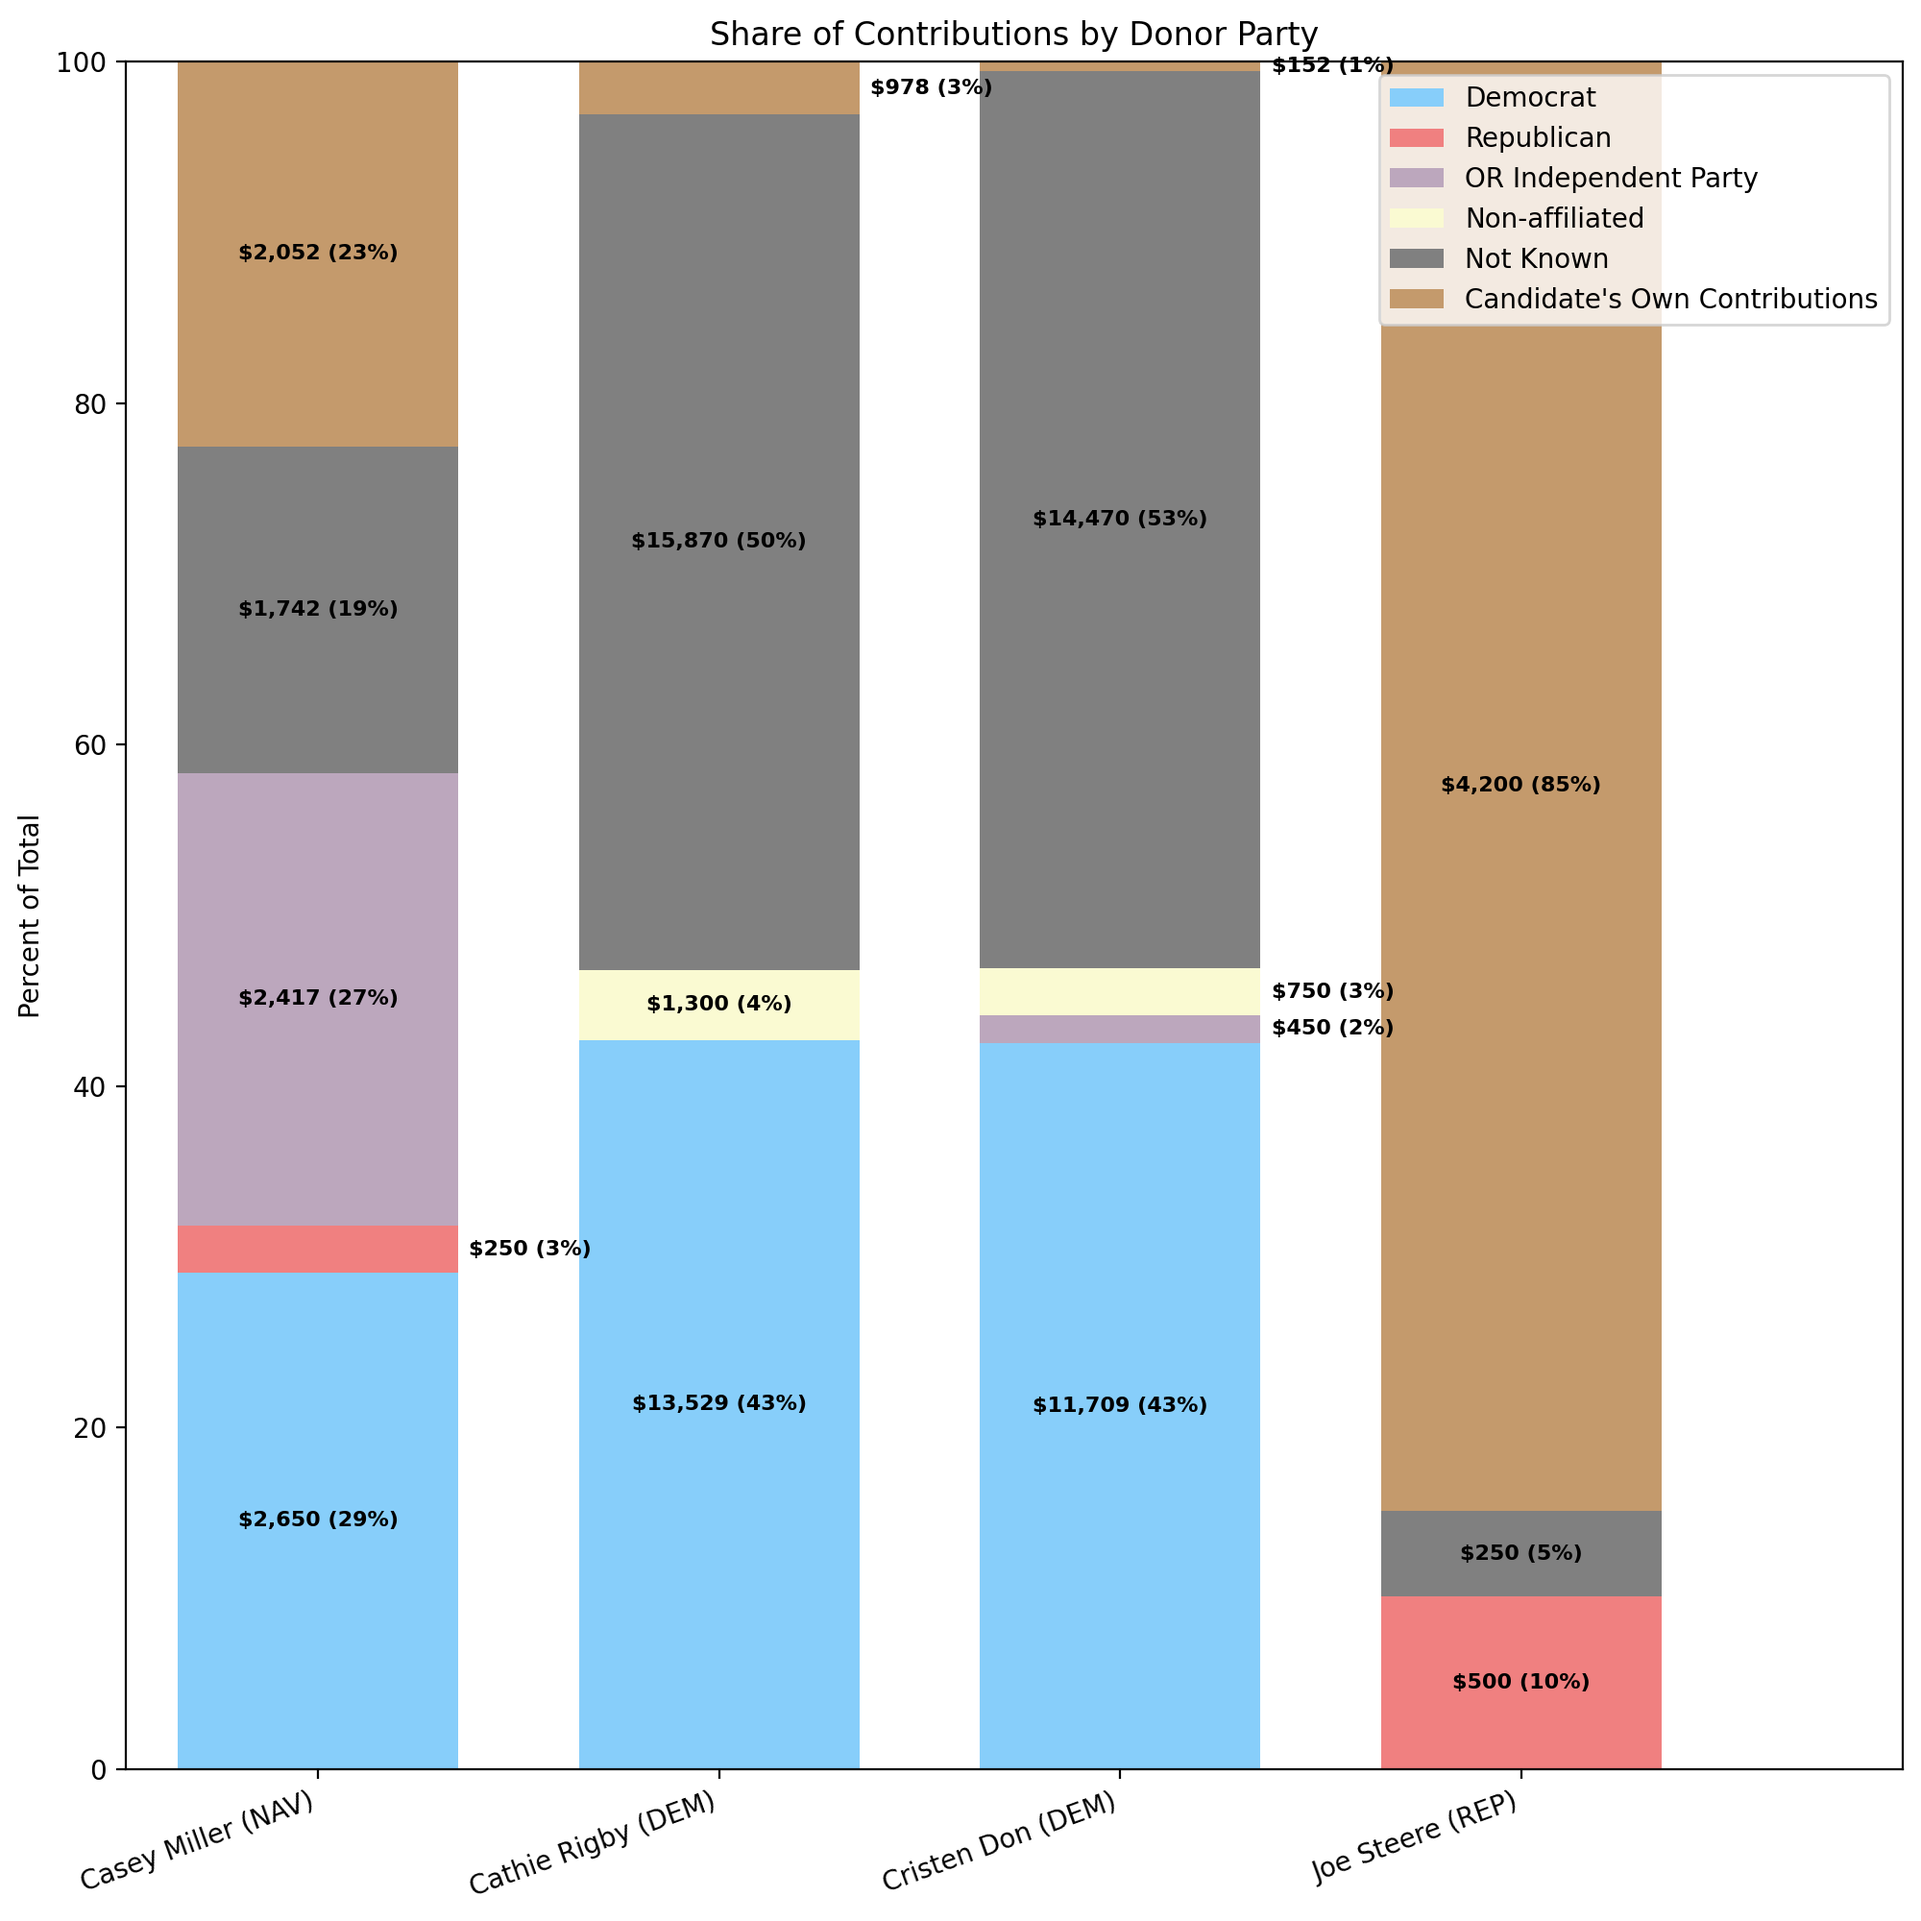
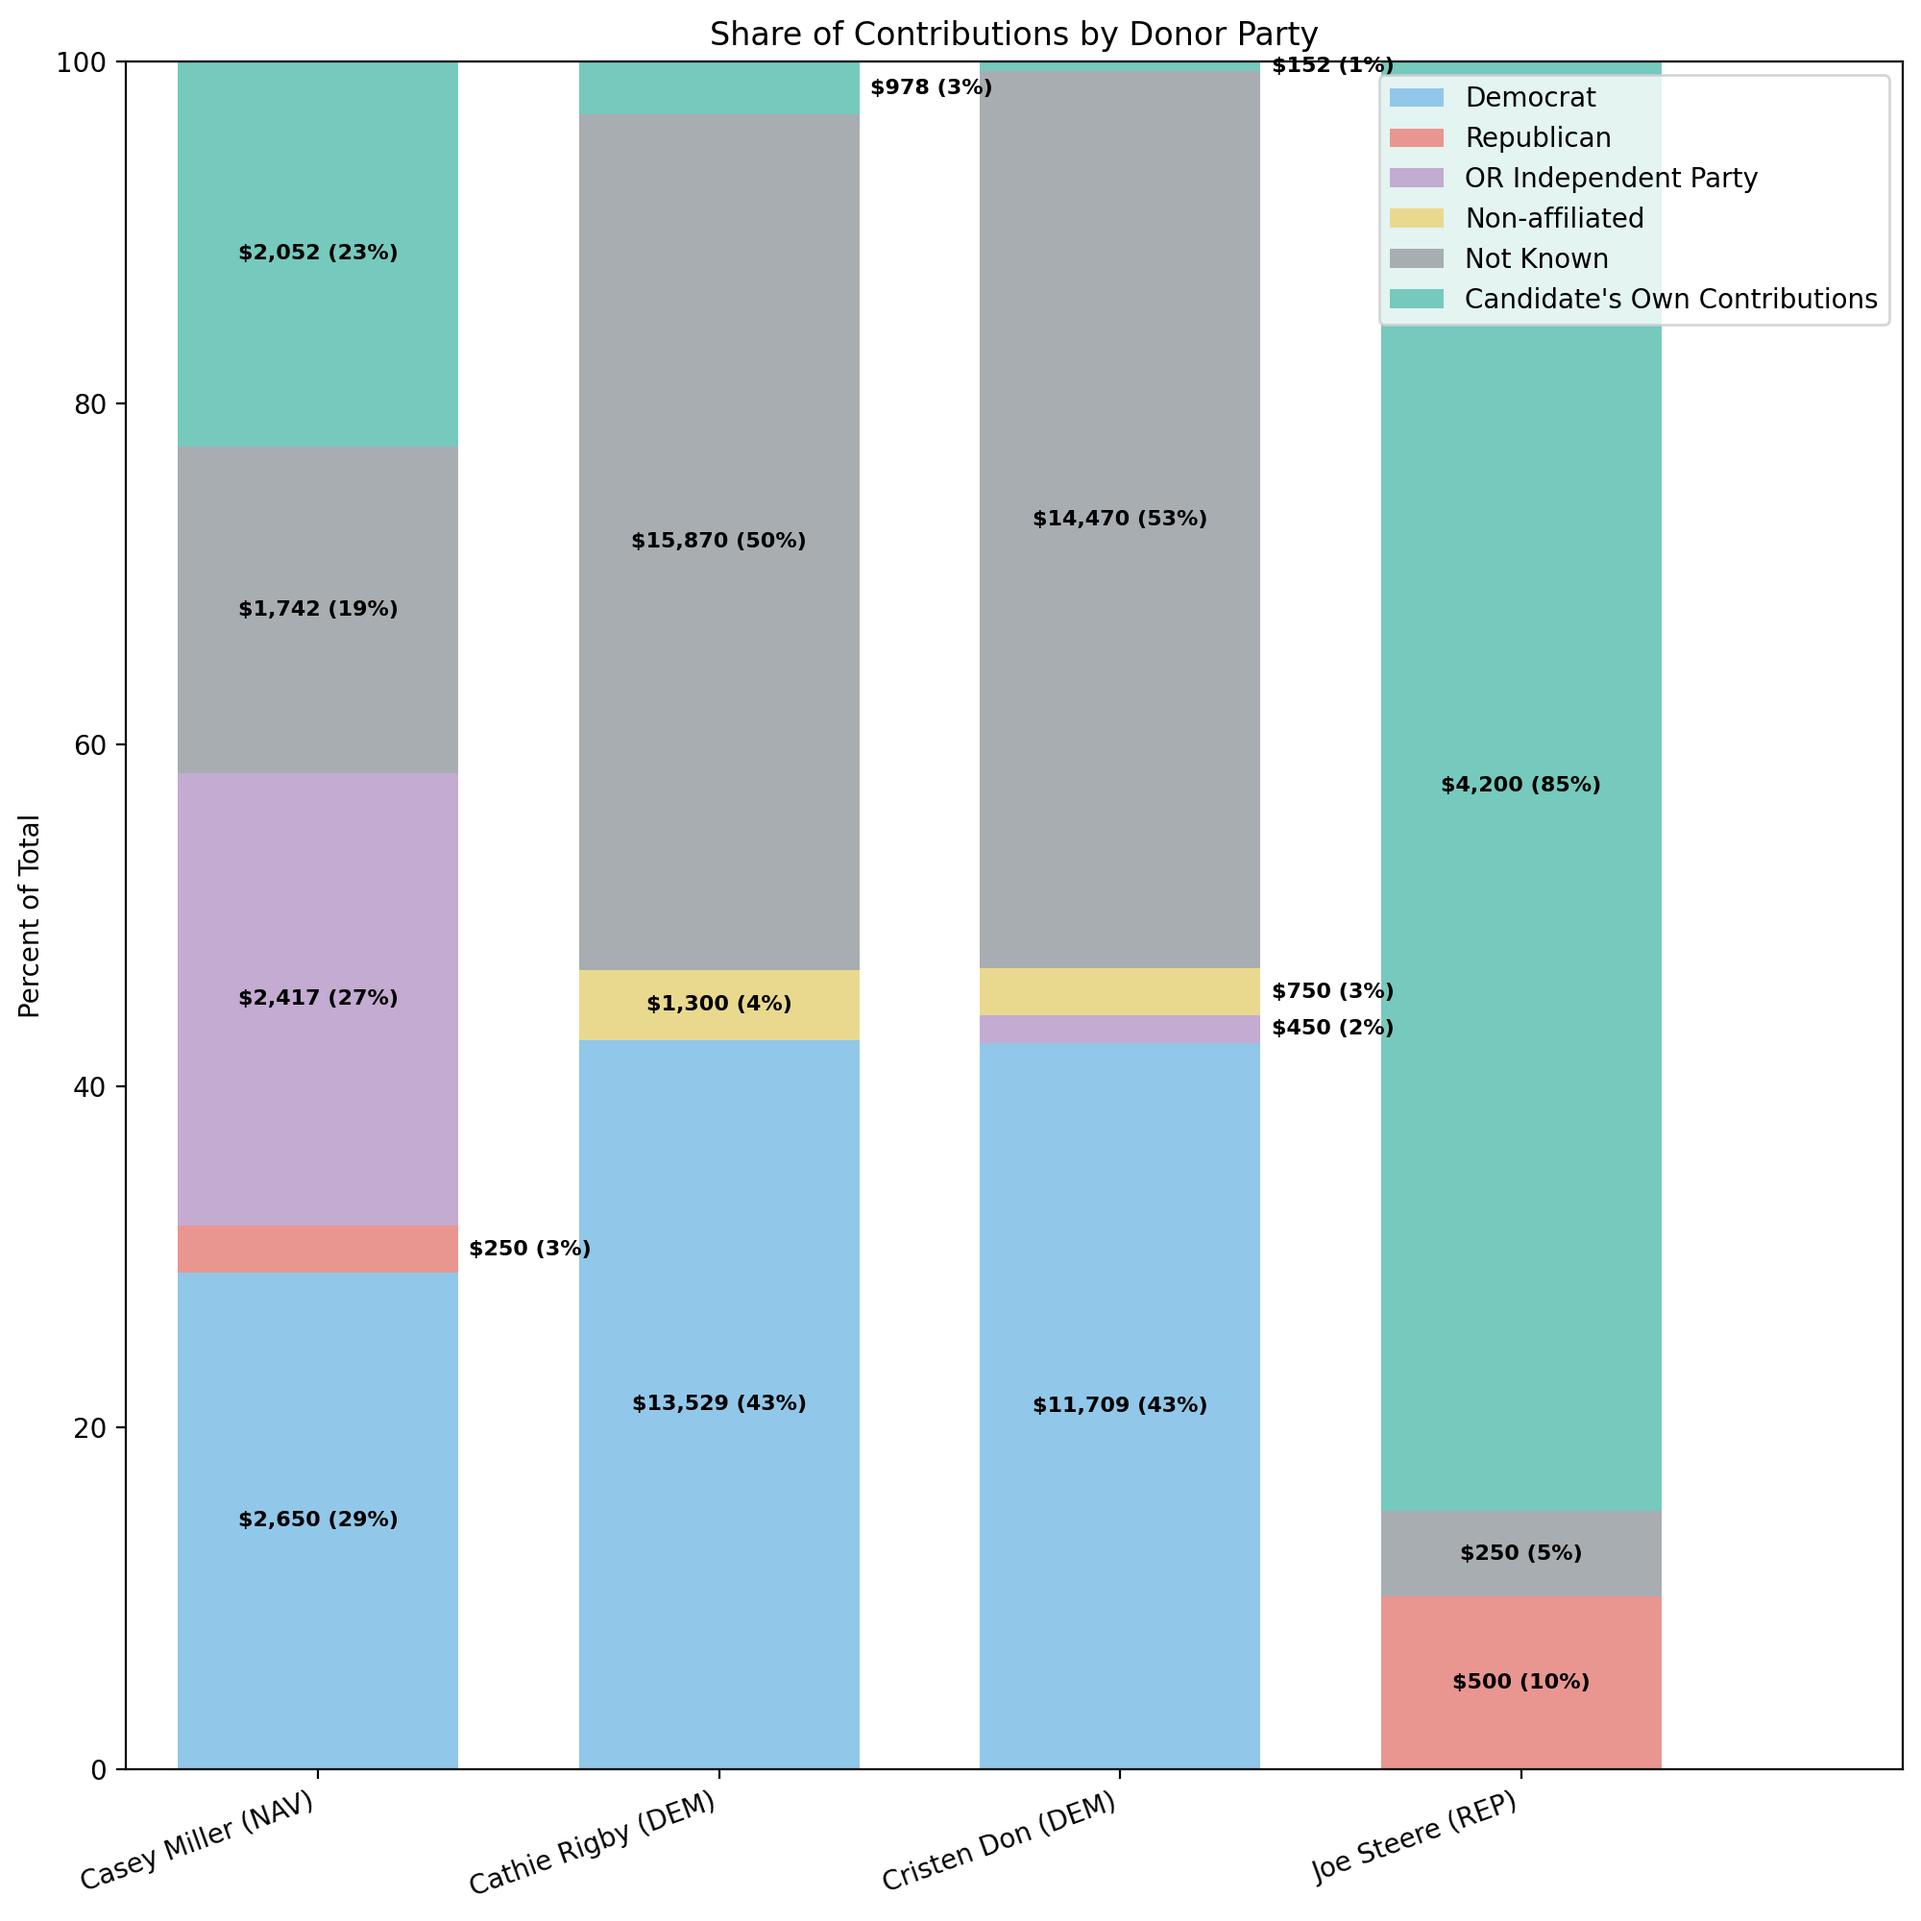
Soften colors

diff --git a/campaign_charts.py b/campaign_charts.py
@@ -18,11 +18,11 @@ import numpy as np
 from campaign_config import PARTY_COLORS, PARTY_LABELS
 from campaign_models import CandidatePartySummary, CandidateSummary
 
-INSIDE_COUNTY_COLOR = "green"
-OUTSIDE_COUNTY_COLOR = "yellow"
-OUTSIDE_OREGON_COLOR = "red"
-UNKNOWN_COLOR = "gray"
-SELF_CONTRIBUTION_COLOR = "#C49A6C"  # light brown; readable with black labels
+INSIDE_COUNTY_COLOR = "#78B878" # friendly green
+OUTSIDE_COUNTY_COLOR = "#F0A0BE" # Warm pink
+OUTSIDE_OREGON_COLOR = "#E87872" # Soft corel red
+UNKNOWN_COLOR = "#A8ADB2" # Neutral gray
+SELF_CONTRIBUTION_COLOR = "#76C9BD" # Soft turquoise
 
 THRESHOLD = 0.04
 

diff --git a/campaign_config.py b/campaign_config.py
@@ -28,11 +28,11 @@ PARTY_LABELS: Dict[str, str] = {
 }
 
 PARTY_COLORS: Dict[str, str] = {
-    "DEM": "lightskyblue",
-    "REP": "lightcoral",
-    "IND": "#BCA7BD",
-    "NAV": "lightgoldenrodyellow",
-    "UNK": "gray",
+    "DEM": "#91C7E8",  # Soft sky blue
+    "REP": "#E99691",  # Warm coral
+    "IND": "#C3ABD1",  # Soft lavender
+    "NAV": "#E9D98E",  # Warm golden yellow
+    "UNK": "#A8ADB2",  # Neutral gray
 }
 
 PARTY_ORDER: List[str] = ["DEM", "REP", "IND", "NAV", "UNK"]
